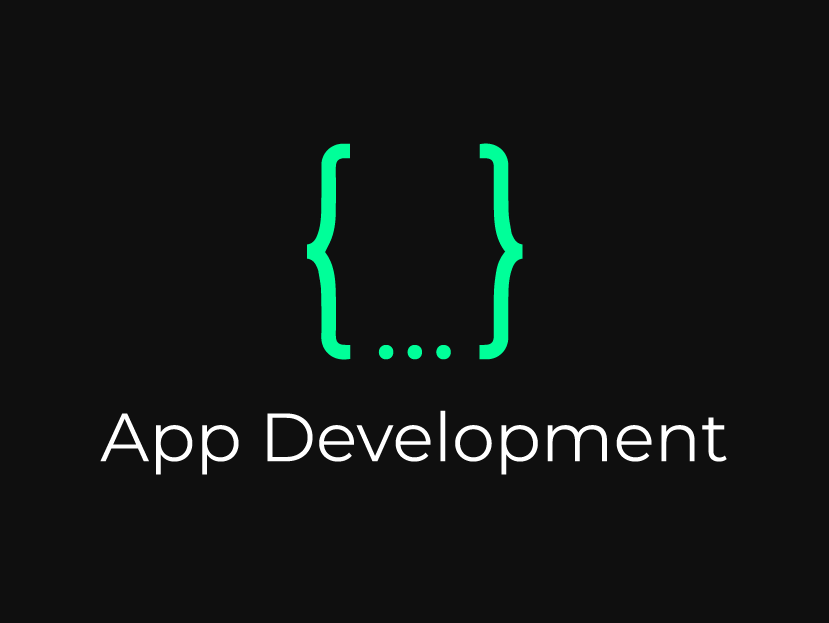
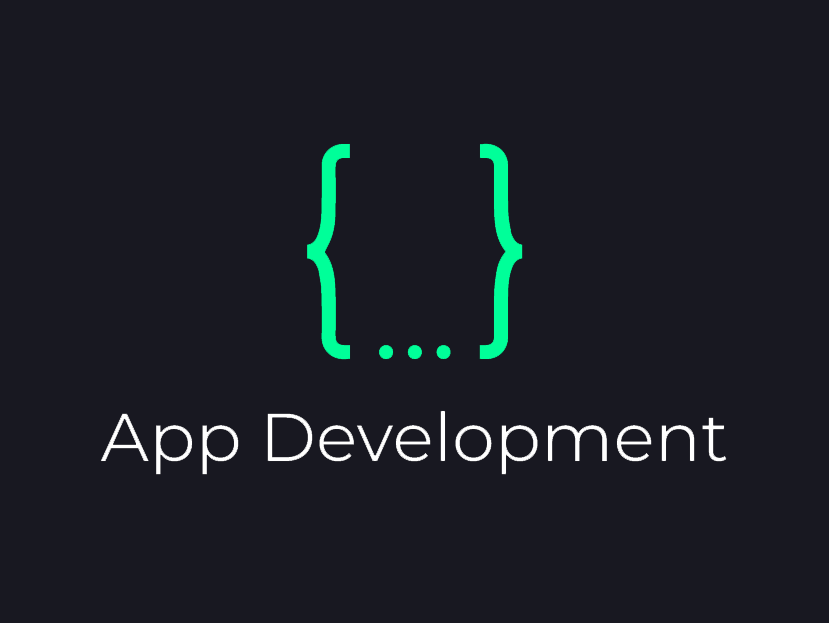
Cambiando colores de imagen, modificando footer

diff --git a/index.html b/index.html
@@ -14,7 +14,7 @@
   </head>
   <body>
   <!-- This example requires Tailwind CSS v2.0+ -->
-  <nav style="background: #0F0F0F;">
+  <nav style="background: #181821;">
     <div class="max-w-7xl mx-auto px-2 sm:px-6 lg:px-8">
       <div class="relative flex items-center justify-between h-16">
         <div class="absolute inset-y-0 left-0 flex items-center sm:hidden">
@@ -56,13 +56,13 @@
   </nav>
   <div class="relative bg-gray-50">
 
-    <main class="lg:relative" style="background-color: #0F0F0F">
+    <main class="lg:relative" style="background-color: #181821">
       <div class="mx-auto max-w-7xl w-full pt-16 pb-20 text-center lg:py-48 lg:text-left">
         <div class="px-4 lg:w-1/2 sm:px-8 xl:pr-16">
           <h1 class="text-4xl tracking-tight font-extrabold text-gray-900 sm:text-5xl md:text-6xl lg:text-5xl xl:text-6xl">
             <span class="block text-indigo-600 xl:inline" style="color: #00FF99">Presentación personal</span>
           </h1>
-          <p class="mt-3 max-w-md mx-auto text-lg text-gray-500 sm:text-xl md:mt-5 md:max-w-3xl" style="color: white">Hola, me llamo Gabriel, tengo 24 años, y soy un programador/diseñador grafico, en esta pagina personal presentare algunos de mis proyectos</p>
+          <p class="mt-3 max-w-md mx-auto text-lg text-white sm:text-xl md:mt-5 md:max-w-3xl" style="color: white">Hola, me llamo Gabriel, tengo 24 años, y soy un programador/diseñador grafico, en esta pagina personal presentare algunos de mis proyectos</p>
         </div>
       </div>
       <div class="relative w-full h-64 sm:h-72 md:h-96 lg:absolute lg:inset-y-0 lg:right-0 lg:w-1/2 lg:h-full">
@@ -105,12 +105,18 @@
           </li>
         </ul>
       </div>
-  <div style="margin-top:50px">
-      <h2 class="text-3xl font-extrabold tracking-tight sm:text-4xl">Proyectos</h2>
-  </div>
     </div>
   </div>
-  <div class="swiper mySwiper">
+
+    <div class="mx-auto py-12 px-4 max-w-7xs sm:px-6 lg:px-8 lg:py-24">
+      <div class="space-y-12">
+        <div class="space-y-5 sm:space-y-4 md:max-w-xl lg:max-w-3xl xl:max-w-none">
+          <h2 class="text-3xl font-extrabold tracking-tight sm:text-4xl">Proyectos</h2>
+        </div>
+      </div>
+    </div>
+
+  <div class="swiper mySwiper" style="background-color: #181821">
     <div class="swiper-wrapper">
       <div class="swiper-slide">
         <img
@@ -121,14 +127,14 @@
       </div>
       <div class="swiper-slide">
         <img
-                class="object-cover w-full h-4/6"
+                class="object-cover w-full h-fit"
                 src="img/proyecto.png"
                 alt="image"
         />
       </div>
       <div class="swiper-slide">
         <img
-                class="object-cover w-full h-4/6"
+                class="object-cover w-full h-fit"
                 src="img/proyecto2.png"
                 alt="image"
         />
@@ -136,7 +142,7 @@
 
       <div class="swiper-slide">
         <img
-                class="object-cover w-full h-4/6"
+                class="object-cover w-full h-fit"
                 src="img/proyecto3.png"
                 alt="image"
         />
@@ -144,7 +150,7 @@
 
       <div class="swiper-slide">
         <img
-                class="object-cover w-full h-4/6"
+                class="object-cover w-full h-fit"
                 src="img/proyecto4.png"
                 alt="image"
         />
@@ -169,59 +175,59 @@
     <div class="max-w-7xl mx-auto py-12 px-4 overflow-hidden sm:px-6 lg:px-8">
       <nav class="-mx-5 -my-2 flex flex-wrap justify-center" aria-label="Footer">
         <div class="px-5 py-2">
-          <a href="#" class="text-base text-gray-500 hover:text-gray-900"> About </a>
+          <a href="#" class="text-base text-white hover:text-white"> About </a>
         </div>
 
         <div class="px-5 py-2">
-          <a href="#" class="text-base text-gray-500 hover:text-gray-900"> Blog </a>
+          <a href="#" class="text-base text-white hover:text-white"> Blog </a>
         </div>
 
         <div class="px-5 py-2">
-          <a href="#" class="text-base text-gray-500 hover:text-gray-900"> Jobs </a>
+          <a href="#" class="text-base text-white hover:text-white"> Jobs </a>
         </div>
 
         <div class="px-5 py-2">
-          <a href="#" class="text-base text-gray-500 hover:text-gray-900"> Press </a>
+          <a href="#" class="text-base text-white hover:text-white"> Press </a>
         </div>
 
         <div class="px-5 py-2">
-          <a href="#" class="text-base text-gray-500 hover:text-gray-900"> Accessibility </a>
+          <a href="#" class="text-base text-white hover:text-white"> Accessibility </a>
         </div>
 
         <div class="px-5 py-2">
-          <a href="#" class="text-base text-gray-500 hover:text-gray-900"> Partners </a>
+          <a href="#" class="text-base text-white hover:text-white"> Partners </a>
         </div>
       </nav>
       <div class="mt-8 flex justify-center space-x-6">
-        <a href="#" class="text-gray-400 hover:text-gray-500">
+        <a href="#" class="text-gray-400 hover:text-white">
           <span class="sr-only">Facebook</span>
           <svg class="h-6 w-6" fill="currentColor" viewBox="0 0 24 24" aria-hidden="true">
             <path fill-rule="evenodd" d="M22 12c0-5.523-4.477-10-10-10S2 6.477 2 12c0 4.991 3.657 9.128 8.438 9.878v-6.987h-2.54V12h2.54V9.797c0-2.506 1.492-3.89 3.777-3.89 1.094 0 2.238.195 2.238.195v2.46h-1.26c-1.243 0-1.63.771-1.63 1.562V12h2.773l-.443 2.89h-2.33v6.988C18.343 21.128 22 16.991 22 12z" clip-rule="evenodd" />
           </svg>
         </a>
 
-        <a href="#" class="text-gray-400 hover:text-gray-500">
+        <a href="#" class="text-gray-400 hover:text-white">
           <span class="sr-only">Instagram</span>
           <svg class="h-6 w-6" fill="currentColor" viewBox="0 0 24 24" aria-hidden="true">
             <path fill-rule="evenodd" d="M12.315 2c2.43 0 2.784.013 3.808.06 1.064.049 1.791.218 2.427.465a4.902 4.902 0 011.772 1.153 4.902 4.902 0 011.153 1.772c.247.636.416 1.363.465 2.427.048 1.067.06 1.407.06 4.123v.08c0 2.643-.012 2.987-.06 4.043-.049 1.064-.218 1.791-.465 2.427a4.902 4.902 0 01-1.153 1.772 4.902 4.902 0 01-1.772 1.153c-.636.247-1.363.416-2.427.465-1.067.048-1.407.06-4.123.06h-.08c-2.643 0-2.987-.012-4.043-.06-1.064-.049-1.791-.218-2.427-.465a4.902 4.902 0 01-1.772-1.153 4.902 4.902 0 01-1.153-1.772c-.247-.636-.416-1.363-.465-2.427-.047-1.024-.06-1.379-.06-3.808v-.63c0-2.43.013-2.784.06-3.808.049-1.064.218-1.791.465-2.427a4.902 4.902 0 011.153-1.772A4.902 4.902 0 015.45 2.525c.636-.247 1.363-.416 2.427-.465C8.901 2.013 9.256 2 11.685 2h.63zm-.081 1.802h-.468c-2.456 0-2.784.011-3.807.058-.975.045-1.504.207-1.857.344-.467.182-.8.398-1.15.748-.35.35-.566.683-.748 1.15-.137.353-.3.882-.344 1.857-.047 1.023-.058 1.351-.058 3.807v.468c0 2.456.011 2.784.058 3.807.045.975.207 1.504.344 1.857.182.466.399.8.748 1.15.35.35.683.566 1.15.748.353.137.882.3 1.857.344 1.054.048 1.37.058 4.041.058h.08c2.597 0 2.917-.01 3.96-.058.976-.045 1.505-.207 1.858-.344.466-.182.8-.398 1.15-.748.35-.35.566-.683.748-1.15.137-.353.3-.882.344-1.857.048-1.055.058-1.37.058-4.041v-.08c0-2.597-.01-2.917-.058-3.96-.045-.976-.207-1.505-.344-1.858a3.097 3.097 0 00-.748-1.15 3.098 3.098 0 00-1.15-.748c-.353-.137-.882-.3-1.857-.344-1.023-.047-1.351-.058-3.807-.058zM12 6.865a5.135 5.135 0 110 10.27 5.135 5.135 0 010-10.27zm0 1.802a3.333 3.333 0 100 6.666 3.333 3.333 0 000-6.666zm5.338-3.205a1.2 1.2 0 110 2.4 1.2 1.2 0 010-2.4z" clip-rule="evenodd" />
           </svg>
         </a>
 
-        <a href="#" class="text-gray-400 hover:text-gray-500">
+        <a href="#" class="text-gray-400 hover:text-white">
           <span class="sr-only">Twitter</span>
           <svg class="h-6 w-6" fill="currentColor" viewBox="0 0 24 24" aria-hidden="true">
             <path d="M8.29 20.251c7.547 0 11.675-6.253 11.675-11.675 0-.178 0-.355-.012-.53A8.348 8.348 0 0022 5.92a8.19 8.19 0 01-2.357.646 4.118 4.118 0 001.804-2.27 8.224 8.224 0 01-2.605.996 4.107 4.107 0 00-6.993 3.743 11.65 11.65 0 01-8.457-4.287 4.106 4.106 0 001.27 5.477A4.072 4.072 0 012.8 9.713v.052a4.105 4.105 0 003.292 4.022 4.095 4.095 0 01-1.853.07 4.108 4.108 0 003.834 2.85A8.233 8.233 0 012 18.407a11.616 11.616 0 006.29 1.84" />
           </svg>
         </a>
 
-        <a href="#" class="text-gray-400 hover:text-gray-500">
+        <a href="#" class="text-gray-400 hover:text-white">
           <span class="sr-only">GitHub</span>
           <svg class="h-6 w-6" fill="currentColor" viewBox="0 0 24 24" aria-hidden="true">
             <path fill-rule="evenodd" d="M12 2C6.477 2 2 6.484 2 12.017c0 4.425 2.865 8.18 6.839 9.504.5.092.682-.217.682-.483 0-.237-.008-.868-.013-1.703-2.782.605-3.369-1.343-3.369-1.343-.454-1.158-1.11-1.466-1.11-1.466-.908-.62.069-.608.069-.608 1.003.07 1.531 1.032 1.531 1.032.892 1.53 2.341 1.088 2.91.832.092-.647.35-1.088.636-1.338-2.22-.253-4.555-1.113-4.555-4.951 0-1.093.39-1.988 1.029-2.688-.103-.253-.446-1.272.098-2.65 0 0 .84-.27 2.75 1.026A9.564 9.564 0 0112 6.844c.85.004 1.705.115 2.504.337 1.909-1.296 2.747-1.027 2.747-1.027.546 1.379.202 2.398.1 2.651.64.7 1.028 1.595 1.028 2.688 0 3.848-2.339 4.695-4.566 4.943.359.309.678.92.678 1.855 0 1.338-.012 2.419-.012 2.747 0 .268.18.58.688.482A10.019 10.019 0 0022 12.017C22 6.484 17.522 2 12 2z" clip-rule="evenodd" />
           </svg>
         </a>
 
-        <a href="#" class="text-gray-400 hover:text-gray-500">
+        <a href="#" class="text-gray-400 hover:text-white">
           <span class="sr-only">Dribbble</span>
           <svg class="h-6 w-6" fill="currentColor" viewBox="0 0 24 24" aria-hidden="true">
             <path fill-rule="evenodd" d="M12 2C6.48 2 2 6.48 2 12s4.48 10 10 10c5.51 0 10-4.48 10-10S17.51 2 12 2zm6.605 4.61a8.502 8.502 0 011.93 5.314c-.281-.054-3.101-.629-5.943-.271-.065-.141-.12-.293-.184-.445a25.416 25.416 0 00-.564-1.236c3.145-1.28 4.577-3.124 4.761-3.362zM12 3.475c2.17 0 4.154.813 5.662 2.148-.152.216-1.443 1.941-4.48 3.08-1.399-2.57-2.95-4.675-3.189-5A8.687 8.687 0 0112 3.475zm-3.633.803a53.896 53.896 0 013.167 4.935c-3.992 1.063-7.517 1.04-7.896 1.04a8.581 8.581 0 014.729-5.975zM3.453 12.01v-.26c.37.01 4.512.065 8.775-1.215.25.477.477.965.694 1.453-.109.033-.228.065-.336.098-4.404 1.42-6.747 5.303-6.942 5.629a8.522 8.522 0 01-2.19-5.705zM12 20.547a8.482 8.482 0 01-5.239-1.8c.152-.315 1.888-3.656 6.703-5.337.022-.01.033-.01.054-.022a35.318 35.318 0 011.823 6.475 8.4 8.4 0 01-3.341.684zm4.761-1.465c-.086-.52-.542-3.015-1.659-6.084 2.679-.423 5.022.271 5.314.369a8.468 8.468 0 01-3.655 5.715z" clip-rule="evenodd" />
